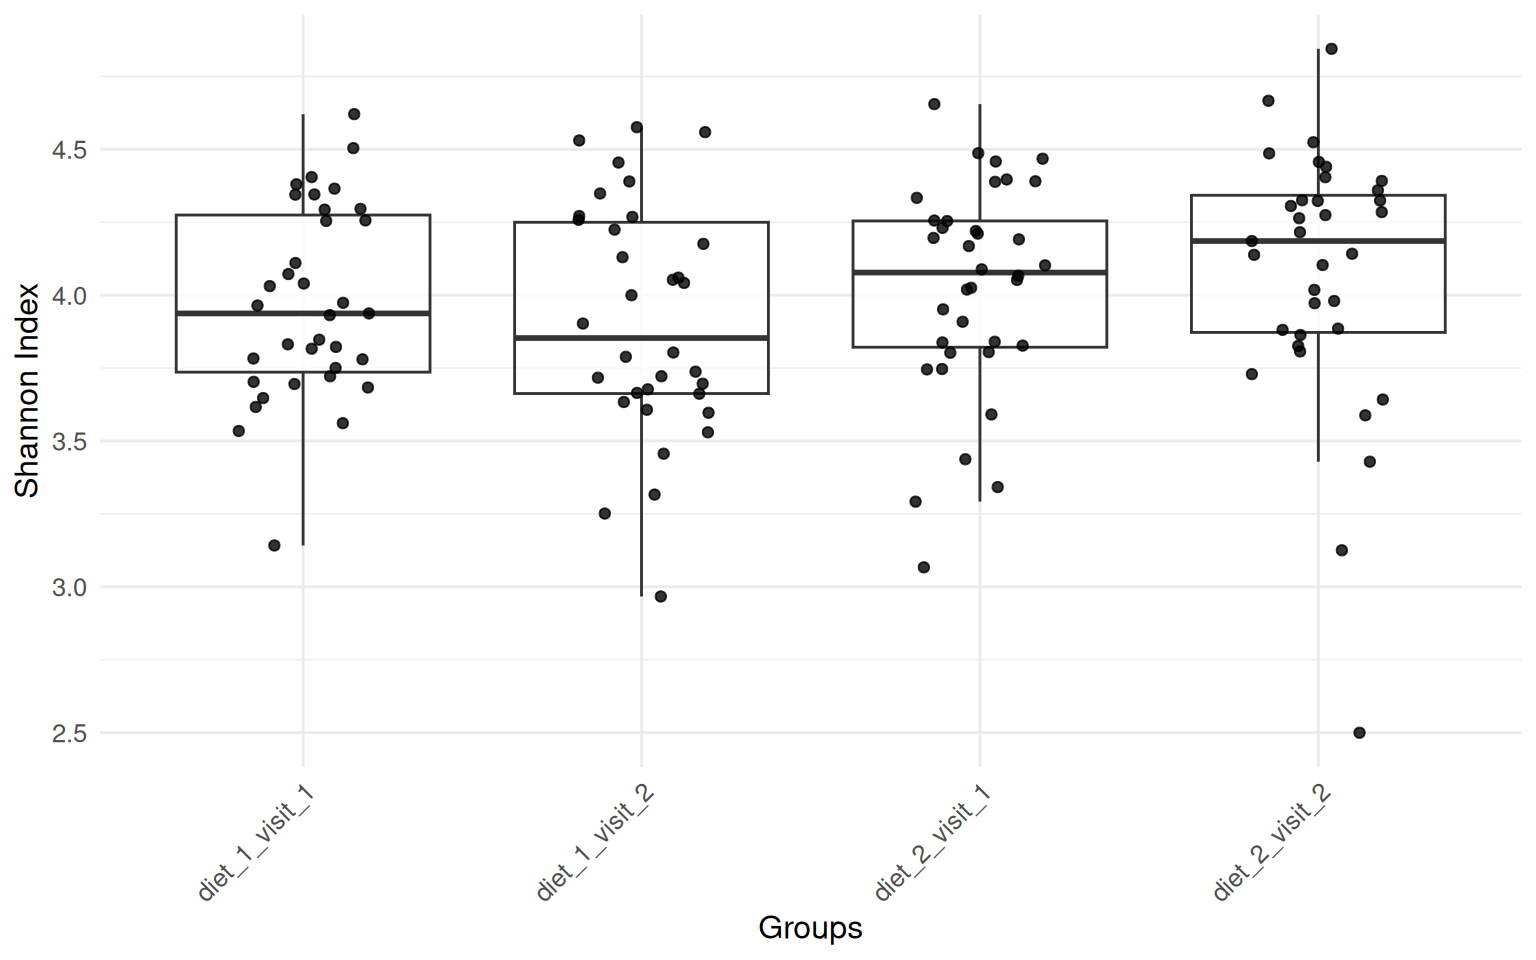
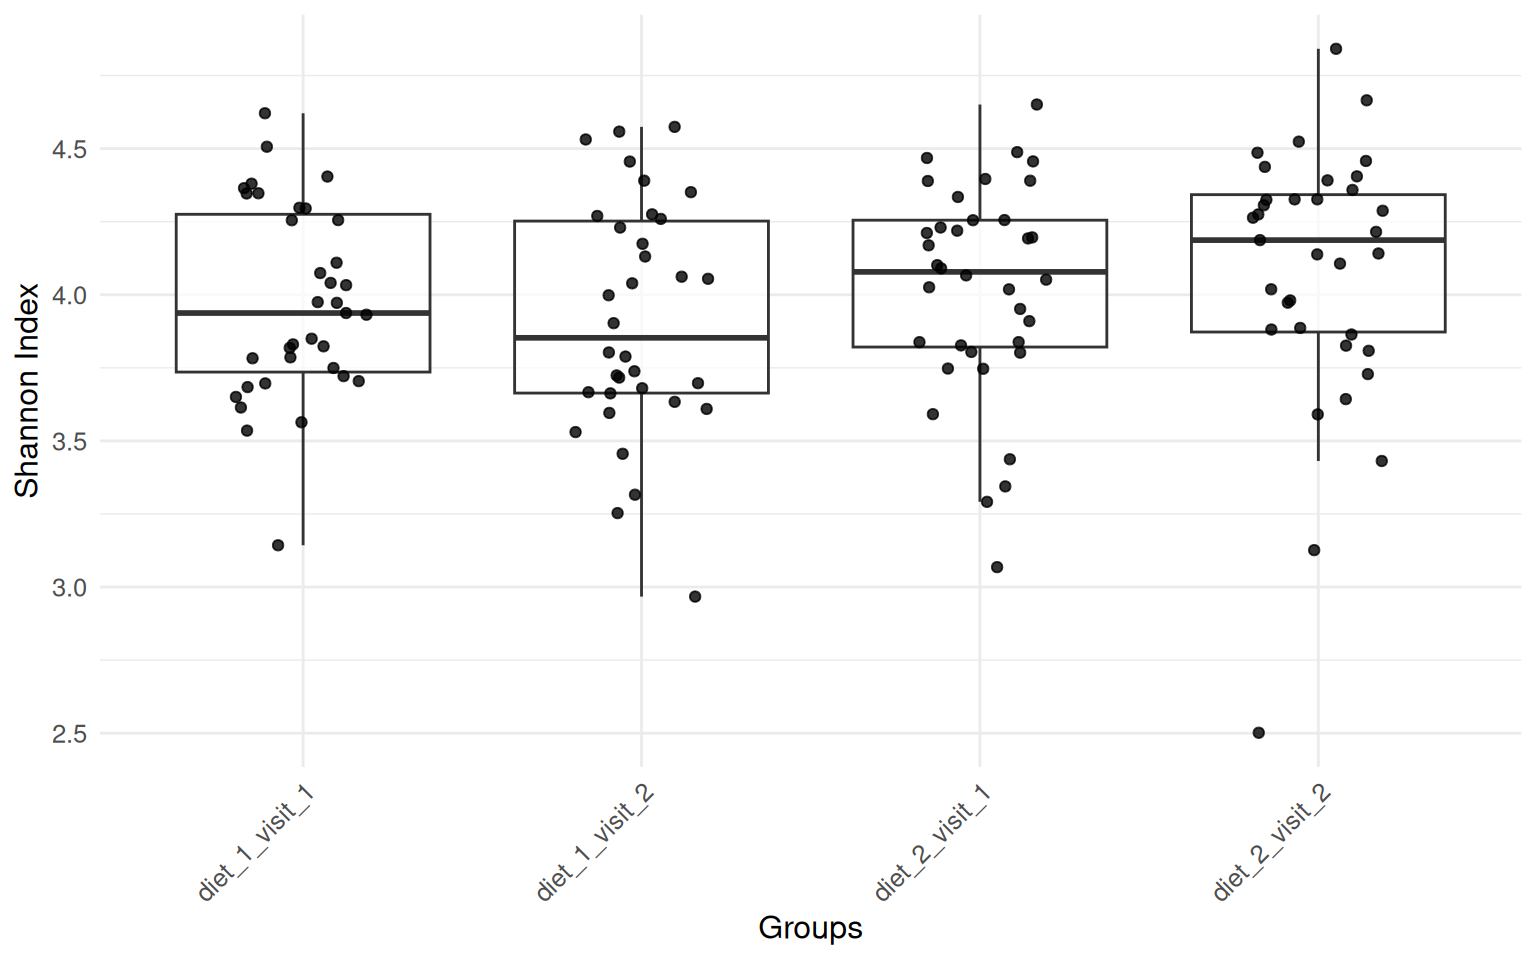
update

diff --git a/output/Beta_Diversity.html b/output/Beta_Diversity.html
@@ -99,50 +99,276 @@ pre > code.sourceCode > span > a:first-child::before { text-decoration: underlin
 <section id="community-dissimilarity" class="level2">
 <h2 class="anchored" data-anchor-id="community-dissimilarity">Community dissimilarity</h2>
 <p>This document presents the results of a microbiota project, focusing on beta diversity analysis. Specifically, we employed Principal Coordinates Analysis (PCoA) using the Bray-Curtis dissimilarity index to assess community dissimilarity among microbiota samples.</p>
-<div class="cell">
-<div class="sourceCode cell-code" id="cb1"><pre class="sourceCode r code-with-copy"><code class="sourceCode r"><span id="cb1-1"><a href="#cb1-1" aria-hidden="true" tabindex="-1"></a><span class="co"># Load libraries</span></span>
-<span id="cb1-2"><a href="#cb1-2" aria-hidden="true" tabindex="-1"></a><span class="fu">library</span>(tidyverse)     </span>
-<span id="cb1-3"><a href="#cb1-3" aria-hidden="true" tabindex="-1"></a><span class="fu">library</span>(TreeSummarizedExperiment)  </span>
-<span id="cb1-4"><a href="#cb1-4" aria-hidden="true" tabindex="-1"></a><span class="fu">library</span>(mia)</span>
-<span id="cb1-5"><a href="#cb1-5" aria-hidden="true" tabindex="-1"></a><span class="fu">library</span>(miaViz)</span>
-<span id="cb1-6"><a href="#cb1-6" aria-hidden="true" tabindex="-1"></a><span class="fu">library</span>(ggpubr)        </span>
-<span id="cb1-7"><a href="#cb1-7" aria-hidden="true" tabindex="-1"></a><span class="fu">library</span>(scater)        </span></code><button title="Copy to Clipboard" class="code-copy-button"><i class="bi"></i></button></pre></div>
-</div>
 <p>Data Preprocessing</p>
 <div class="cell">
-<div class="sourceCode cell-code" id="cb2"><pre class="sourceCode r code-with-copy"><code class="sourceCode r"><span id="cb2-1"><a href="#cb2-1" aria-hidden="true" tabindex="-1"></a><span class="co"># Load and preprocess data</span></span>
-<span id="cb2-2"><a href="#cb2-2" aria-hidden="true" tabindex="-1"></a><span class="co"># tse &lt;- readRDS("../data/tse.Rds")</span></span>
-<span id="cb2-3"><a href="#cb2-3" aria-hidden="true" tabindex="-1"></a><span class="fu">source</span>(<span class="st">"funct.R"</span>)</span></code><button title="Copy to Clipboard" class="code-copy-button"><i class="bi"></i></button></pre></div>
+<div class="sourceCode cell-code" id="cb1"><pre class="sourceCode r code-with-copy"><code class="sourceCode r"><span id="cb1-1"><a href="#cb1-1" aria-hidden="true" tabindex="-1"></a><span class="co"># Load and preprocess data</span></span>
+<span id="cb1-2"><a href="#cb1-2" aria-hidden="true" tabindex="-1"></a><span class="co"># tse &lt;- readRDS("../data/tse.Rds")</span></span>
+<span id="cb1-3"><a href="#cb1-3" aria-hidden="true" tabindex="-1"></a><span class="fu">source</span>(<span class="st">"funct.R"</span>)</span></code><button title="Copy to Clipboard" class="code-copy-button"><i class="bi"></i></button></pre></div>
 <div class="cell-output cell-output-stderr">
-<pre><code>Loading required package: permute</code></pre>
+<pre><code>
+Attaching package: 'dplyr'</code></pre>
 </div>
 <div class="cell-output cell-output-stderr">
-<pre><code>Loading required package: lattice</code></pre>
+<pre><code>The following objects are masked from 'package:stats':
+
+    filter, lag</code></pre>
 </div>
 <div class="cell-output cell-output-stderr">
-<pre><code>This is vegan 2.6-8</code></pre>
+<pre><code>The following objects are masked from 'package:base':
+
+    intersect, setdiff, setequal, union</code></pre>
 </div>
-<div class="sourceCode cell-code" id="cb6"><pre class="sourceCode r code-with-copy"><code class="sourceCode r"><span id="cb6-1"><a href="#cb6-1" aria-hidden="true" tabindex="-1"></a><span class="fu">source</span>(<span class="st">"TreeSE.R"</span>)</span></code><button title="Copy to Clipboard" class="code-copy-button"><i class="bi"></i></button></pre></div>
+<div class="cell-output cell-output-stderr">
+<pre><code>Loading required package: MultiAssayExperiment</code></pre>
+</div>
+<div class="cell-output cell-output-stderr">
+<pre><code>Loading required package: SummarizedExperiment</code></pre>
+</div>
+<div class="cell-output cell-output-stderr">
+<pre><code>Loading required package: MatrixGenerics</code></pre>
+</div>
+<div class="cell-output cell-output-stderr">
+<pre><code>Loading required package: matrixStats</code></pre>
+</div>
+<div class="cell-output cell-output-stderr">
+<pre><code>
+Attaching package: 'matrixStats'</code></pre>
+</div>
+<div class="cell-output cell-output-stderr">
+<pre><code>The following object is masked from 'package:dplyr':
+
+    count</code></pre>
+</div>
+<div class="cell-output cell-output-stderr">
+<pre><code>
+Attaching package: 'MatrixGenerics'</code></pre>
+</div>
+<div class="cell-output cell-output-stderr">
+<pre><code>The following objects are masked from 'package:matrixStats':
+
+    colAlls, colAnyNAs, colAnys, colAvgsPerRowSet, colCollapse,
+    colCounts, colCummaxs, colCummins, colCumprods, colCumsums,
+    colDiffs, colIQRDiffs, colIQRs, colLogSumExps, colMadDiffs,
+    colMads, colMaxs, colMeans2, colMedians, colMins, colOrderStats,
+    colProds, colQuantiles, colRanges, colRanks, colSdDiffs, colSds,
+    colSums2, colTabulates, colVarDiffs, colVars, colWeightedMads,
+    colWeightedMeans, colWeightedMedians, colWeightedSds,
+    colWeightedVars, rowAlls, rowAnyNAs, rowAnys, rowAvgsPerColSet,
+    rowCollapse, rowCounts, rowCummaxs, rowCummins, rowCumprods,
+    rowCumsums, rowDiffs, rowIQRDiffs, rowIQRs, rowLogSumExps,
+    rowMadDiffs, rowMads, rowMaxs, rowMeans2, rowMedians, rowMins,
+    rowOrderStats, rowProds, rowQuantiles, rowRanges, rowRanks,
+    rowSdDiffs, rowSds, rowSums2, rowTabulates, rowVarDiffs, rowVars,
+    rowWeightedMads, rowWeightedMeans, rowWeightedMedians,
+    rowWeightedSds, rowWeightedVars</code></pre>
+</div>
+<div class="cell-output cell-output-stderr">
+<pre><code>Loading required package: GenomicRanges</code></pre>
+</div>
+<div class="cell-output cell-output-stderr">
+<pre><code>Loading required package: stats4</code></pre>
+</div>
+<div class="cell-output cell-output-stderr">
+<pre><code>Loading required package: BiocGenerics</code></pre>
+</div>
+<div class="cell-output cell-output-stderr">
+<pre><code>
+Attaching package: 'BiocGenerics'</code></pre>
+</div>
+<div class="cell-output cell-output-stderr">
+<pre><code>The following objects are masked from 'package:dplyr':
+
+    combine, intersect, setdiff, union</code></pre>
+</div>
+<div class="cell-output cell-output-stderr">
+<pre><code>The following objects are masked from 'package:stats':
+
+    IQR, mad, sd, var, xtabs</code></pre>
+</div>
+<div class="cell-output cell-output-stderr">
+<pre><code>The following objects are masked from 'package:base':
+
+    anyDuplicated, aperm, append, as.data.frame, basename, cbind,
+    colnames, dirname, do.call, duplicated, eval, evalq, Filter, Find,
+    get, grep, grepl, intersect, is.unsorted, lapply, Map, mapply,
+    match, mget, order, paste, pmax, pmax.int, pmin, pmin.int,
+    Position, rank, rbind, Reduce, rownames, sapply, saveRDS, setdiff,
+    table, tapply, union, unique, unsplit, which.max, which.min</code></pre>
+</div>
+<div class="cell-output cell-output-stderr">
+<pre><code>Loading required package: S4Vectors</code></pre>
+</div>
+<div class="cell-output cell-output-stderr">
+<pre><code>
+Attaching package: 'S4Vectors'</code></pre>
+</div>
+<div class="cell-output cell-output-stderr">
+<pre><code>The following objects are masked from 'package:dplyr':
+
+    first, rename</code></pre>
+</div>
+<div class="cell-output cell-output-stderr">
+<pre><code>The following object is masked from 'package:utils':
+
+    findMatches</code></pre>
+</div>
+<div class="cell-output cell-output-stderr">
+<pre><code>The following objects are masked from 'package:base':
+
+    expand.grid, I, unname</code></pre>
+</div>
+<div class="cell-output cell-output-stderr">
+<pre><code>Loading required package: IRanges</code></pre>
+</div>
+<div class="cell-output cell-output-stderr">
+<pre><code>
+Attaching package: 'IRanges'</code></pre>
+</div>
+<div class="cell-output cell-output-stderr">
+<pre><code>The following objects are masked from 'package:dplyr':
+
+    collapse, desc, slice</code></pre>
+</div>
+<div class="cell-output cell-output-stderr">
+<pre><code>Loading required package: GenomeInfoDb</code></pre>
+</div>
+<div class="cell-output cell-output-stderr">
+<pre><code>Loading required package: Biobase</code></pre>
+</div>
+<div class="cell-output cell-output-stderr">
+<pre><code>Welcome to Bioconductor
+
+    Vignettes contain introductory material; view with
+    'browseVignettes()'. To cite Bioconductor, see
+    'citation("Biobase")', and for packages 'citation("pkgname")'.</code></pre>
+</div>
+<div class="cell-output cell-output-stderr">
+<pre><code>
+Attaching package: 'Biobase'</code></pre>
+</div>
+<div class="cell-output cell-output-stderr">
+<pre><code>The following object is masked from 'package:MatrixGenerics':
+
+    rowMedians</code></pre>
+</div>
+<div class="cell-output cell-output-stderr">
+<pre><code>The following objects are masked from 'package:matrixStats':
+
+    anyMissing, rowMedians</code></pre>
+</div>
+<div class="cell-output cell-output-stderr">
+<pre><code>Loading required package: SingleCellExperiment</code></pre>
+</div>
+<div class="cell-output cell-output-stderr">
+<pre><code>Loading required package: TreeSummarizedExperiment</code></pre>
+</div>
+<div class="cell-output cell-output-stderr">
+<pre><code>Loading required package: Biostrings</code></pre>
+</div>
+<div class="cell-output cell-output-stderr">
+<pre><code>Loading required package: XVector</code></pre>
+</div>
+<div class="cell-output cell-output-stderr">
+<pre><code>
+Attaching package: 'Biostrings'</code></pre>
+</div>
+<div class="cell-output cell-output-stderr">
+<pre><code>The following object is masked from 'package:base':
+
+    strsplit</code></pre>
+</div>
+<div class="cell-output cell-output-stderr">
+<pre><code>This is mia version 1.15.4
+- Online documentation and vignettes: https://microbiome.github.io/mia/
+- Online book 'Orchestrating Microbiome Analysis (OMA)': https://microbiome.github.io/OMA/docs/devel/</code></pre>
+</div>
+<div class="cell-output cell-output-stderr">
+<pre><code>
+Attaching package: 'mia'</code></pre>
+</div>
+<div class="cell-output cell-output-stderr">
+<pre><code>The following objects are masked from 'package:dplyr':
+
+    full_join, inner_join, left_join, right_join</code></pre>
+</div>
+<div class="cell-output cell-output-stderr">
+<pre><code>Loading required package: ggraph</code></pre>
+</div>
+<div class="cell-output cell-output-stderr">
+<pre><code>
+Attaching package: 'miaViz'</code></pre>
+</div>
+<div class="cell-output cell-output-stderr">
+<pre><code>The following object is masked from 'package:mia':
+
+    plotNMDS</code></pre>
+</div>
+<div class="cell-output cell-output-stderr">
+<pre><code>Loading required package: scuttle</code></pre>
+</div>
+<div class="cell-output cell-output-stderr">
+<pre><code>
+Attaching package: 'tidyr'</code></pre>
+</div>
+<div class="cell-output cell-output-stderr">
+<pre><code>The following object is masked from 'package:S4Vectors':
+
+    expand</code></pre>
+</div>
+<div class="cell-output cell-output-stderr">
+<pre><code>── Attaching core tidyverse packages ──────────────────────── tidyverse 2.0.0 ──
+✔ forcats   1.0.0     ✔ readr     2.1.5
+✔ lubridate 1.9.3     ✔ stringr   1.5.1
+✔ purrr     1.0.2     ✔ tibble    3.2.1
+── Conflicts ────────────────────────────────────────── tidyverse_conflicts() ──
+✖ lubridate::%within%()    masks IRanges::%within%()
+✖ Biostrings::collapse()   masks IRanges::collapse(), dplyr::collapse()
+✖ Biobase::combine()       masks BiocGenerics::combine(), dplyr::combine()
+✖ purrr::compact()         masks XVector::compact()
+✖ matrixStats::count()     masks dplyr::count()
+✖ IRanges::desc()          masks dplyr::desc()
+✖ tidyr::expand()          masks S4Vectors::expand()
+✖ dplyr::filter()          masks stats::filter()
+✖ S4Vectors::first()       masks dplyr::first()
+✖ mia::full_join()         masks dplyr::full_join()
+✖ mia::inner_join()        masks dplyr::inner_join()
+✖ dplyr::lag()             masks stats::lag()
+✖ mia::left_join()         masks dplyr::left_join()
+✖ BiocGenerics::Position() masks ggplot2::Position(), base::Position()
+✖ purrr::reduce()          masks GenomicRanges::reduce(), IRanges::reduce()
+✖ S4Vectors::rename()      masks dplyr::rename()
+✖ mia::right_join()        masks dplyr::right_join()
+✖ lubridate::second()      masks S4Vectors::second()
+✖ lubridate::second&lt;-()    masks S4Vectors::second&lt;-()
+✖ XVector::slice()         masks IRanges::slice(), dplyr::slice()
+ℹ Use the conflicted package (&lt;http://conflicted.r-lib.org/&gt;) to force all conflicts to become errors
+Loading required package: permute
+
+Loading required package: lattice
+
+This is vegan 2.6-8</code></pre>
+</div>
+<div class="sourceCode cell-code" id="cb50"><pre class="sourceCode r code-with-copy"><code class="sourceCode r"><span id="cb50-1"><a href="#cb50-1" aria-hidden="true" tabindex="-1"></a><span class="fu">source</span>(<span class="st">"data.R"</span>)</span></code><button title="Copy to Clipboard" class="code-copy-button"><i class="bi"></i></button></pre></div>
 <div class="cell-output cell-output-stdout">
 <pre><code>
 diet_1_visit_1 diet_1_visit_2 diet_2_visit_1 diet_2_visit_2 
             35             34             36             35 </code></pre>
 </div>
-<div class="sourceCode cell-code" id="cb8"><pre class="sourceCode r code-with-copy"><code class="sourceCode r"><span id="cb8-1"><a href="#cb8-1" aria-hidden="true" tabindex="-1"></a>tse <span class="ot">&lt;-</span> <span class="fu">agglomerateByRanks</span>(tse)</span></code><button title="Copy to Clipboard" class="code-copy-button"><i class="bi"></i></button></pre></div>
+<div class="sourceCode cell-code" id="cb52"><pre class="sourceCode r code-with-copy"><code class="sourceCode r"><span id="cb52-1"><a href="#cb52-1" aria-hidden="true" tabindex="-1"></a>tse <span class="ot">&lt;-</span> <span class="fu">agglomerateByRanks</span>(tse)</span></code><button title="Copy to Clipboard" class="code-copy-button"><i class="bi"></i></button></pre></div>
 <div class="cell-output cell-output-stderr">
 <pre><code>Warning: The following values are already present in `altExps` and will be
 overwritten: 'kingdom', 'phylum', 'class', 'order', 'family', 'genus',
 'species'. Consider using the 'name' argument to specify alternative names.</code></pre>
 </div>
-<div class="sourceCode cell-code" id="cb10"><pre class="sourceCode r code-with-copy"><code class="sourceCode r"><span id="cb10-1"><a href="#cb10-1" aria-hidden="true" tabindex="-1"></a>tse <span class="ot">&lt;-</span> <span class="fu">transformAssay</span>(tse, <span class="at">method =</span> <span class="st">"relabundance"</span>)</span>
-<span id="cb10-2"><a href="#cb10-2" aria-hidden="true" tabindex="-1"></a>tse <span class="ot">&lt;-</span> <span class="fu">altExp</span>(tse, <span class="st">"species"</span>)</span></code><button title="Copy to Clipboard" class="code-copy-button"><i class="bi"></i></button></pre></div>
+<div class="sourceCode cell-code" id="cb54"><pre class="sourceCode r code-with-copy"><code class="sourceCode r"><span id="cb54-1"><a href="#cb54-1" aria-hidden="true" tabindex="-1"></a>tse <span class="ot">&lt;-</span> <span class="fu">transformAssay</span>(tse, <span class="at">method =</span> <span class="st">"relabundance"</span>)</span>
+<span id="cb54-2"><a href="#cb54-2" aria-hidden="true" tabindex="-1"></a>tse <span class="ot">&lt;-</span> <span class="fu">altExp</span>(tse, <span class="st">"species"</span>)</span></code><button title="Copy to Clipboard" class="code-copy-button"><i class="bi"></i></button></pre></div>
 </div>
 <p>Generate plots</p>
 <div class="cell">
-<div class="sourceCode cell-code" id="cb11"><pre class="sourceCode r code-with-copy"><code class="sourceCode r"><span id="cb11-1"><a href="#cb11-1" aria-hidden="true" tabindex="-1"></a><span class="co"># Generate plots</span></span>
-<span id="cb11-2"><a href="#cb11-2" aria-hidden="true" tabindex="-1"></a>beta_pcoa <span class="ot">&lt;-</span> <span class="fu">lapply</span>(comparisons, <span class="cf">function</span>(comp) <span class="fu">PCoA_plot</span>(tse, comp, variable))</span>
-<span id="cb11-3"><a href="#cb11-3" aria-hidden="true" tabindex="-1"></a>combined_plot <span class="ot">&lt;-</span> <span class="fu">wrap_plots</span>(beta_pcoa, <span class="at">nrow =</span> <span class="dv">2</span>)</span>
-<span id="cb11-4"><a href="#cb11-4" aria-hidden="true" tabindex="-1"></a>combined_plot</span></code><button title="Copy to Clipboard" class="code-copy-button"><i class="bi"></i></button></pre></div>
+<div class="sourceCode cell-code" id="cb55"><pre class="sourceCode r code-with-copy"><code class="sourceCode r"><span id="cb55-1"><a href="#cb55-1" aria-hidden="true" tabindex="-1"></a><span class="co"># Generate plots</span></span>
+<span id="cb55-2"><a href="#cb55-2" aria-hidden="true" tabindex="-1"></a>beta_pcoa <span class="ot">&lt;-</span> <span class="fu">lapply</span>(comparisons, <span class="cf">function</span>(comp) <span class="fu">PCoA_plot</span>(tse, comp, variable))</span>
+<span id="cb55-3"><a href="#cb55-3" aria-hidden="true" tabindex="-1"></a>combined_plot <span class="ot">&lt;-</span> <span class="fu">wrap_plots</span>(beta_pcoa, <span class="at">nrow =</span> <span class="dv">2</span>)</span>
+<span id="cb55-4"><a href="#cb55-4" aria-hidden="true" tabindex="-1"></a>combined_plot</span></code><button title="Copy to Clipboard" class="code-copy-button"><i class="bi"></i></button></pre></div>
 <div class="cell-output-display">
 <div>
 <figure class="figure">

diff --git a/output/Alpha_Diversity.html b/output/Alpha_Diversity.html
@@ -110,16 +110,9 @@ pre > code.sourceCode > span > a:first-child::before { text-decoration: underlin
 <section id="setup" class="level2">
 <h2 class="anchored" data-anchor-id="setup">Setup</h2>
 <div class="cell">
-<div class="sourceCode cell-code" id="cb1"><pre class="sourceCode r code-with-copy"><code class="sourceCode r"><span id="cb1-1"><a href="#cb1-1" aria-hidden="true" tabindex="-1"></a><span class="co"># Load necessary libraries</span></span>
-<span id="cb1-2"><a href="#cb1-2" aria-hidden="true" tabindex="-1"></a><span class="fu">library</span>(tidyverse)     <span class="co"># Includes ggplot2, dplyr, and readr</span></span>
-<span id="cb1-3"><a href="#cb1-3" aria-hidden="true" tabindex="-1"></a><span class="fu">library</span>(TreeSummarizedExperiment)  <span class="co"># For microbiome data analysis</span></span>
-<span id="cb1-4"><a href="#cb1-4" aria-hidden="true" tabindex="-1"></a><span class="fu">library</span>(mia)           <span class="co"># Microbiome analysis functions built on TSE</span></span>
-<span id="cb1-5"><a href="#cb1-5" aria-hidden="true" tabindex="-1"></a><span class="fu">library</span>(ggpubr)        <span class="co"># For ggplot2-based visualizations</span></span>
-<span id="cb1-6"><a href="#cb1-6" aria-hidden="true" tabindex="-1"></a><span class="fu">library</span>(quarto)        <span class="co"># For rendering Quarto documents</span></span>
-<span id="cb1-7"><a href="#cb1-7" aria-hidden="true" tabindex="-1"></a></span>
-<span id="cb1-8"><a href="#cb1-8" aria-hidden="true" tabindex="-1"></a><span class="co"># tse &lt;- readRDS("../data/tse.Rds")</span></span>
-<span id="cb1-9"><a href="#cb1-9" aria-hidden="true" tabindex="-1"></a><span class="fu">source</span>(<span class="st">"funct.R"</span>)</span>
-<span id="cb1-10"><a href="#cb1-10" aria-hidden="true" tabindex="-1"></a><span class="fu">source</span>(<span class="st">"TreeSE.R"</span>)</span></code><button title="Copy to Clipboard" class="code-copy-button"><i class="bi"></i></button></pre></div>
+<div class="sourceCode cell-code" id="cb1"><pre class="sourceCode r code-with-copy"><code class="sourceCode r"><span id="cb1-1"><a href="#cb1-1" aria-hidden="true" tabindex="-1"></a><span class="co"># tse &lt;- readRDS("../data/tse.Rds")</span></span>
+<span id="cb1-2"><a href="#cb1-2" aria-hidden="true" tabindex="-1"></a><span class="fu">source</span>(<span class="st">"funct.R"</span>)</span>
+<span id="cb1-3"><a href="#cb1-3" aria-hidden="true" tabindex="-1"></a><span class="fu">source</span>(<span class="st">"data.R"</span>)</span></code><button title="Copy to Clipboard" class="code-copy-button"><i class="bi"></i></button></pre></div>
 <div class="cell-output cell-output-stdout">
 <pre><code>
 diet_1_visit_1 diet_1_visit_2 diet_2_visit_1 diet_2_visit_2 

diff --git a/output/Community_composition.html b/output/Community_composition.html
@@ -110,16 +110,9 @@ pre > code.sourceCode > span > a:first-child::before { text-decoration: underlin
 <section id="setup" class="level2">
 <h2 class="anchored" data-anchor-id="setup">Setup</h2>
 <div class="cell">
-<div class="sourceCode cell-code" id="cb1"><pre class="sourceCode r code-with-copy"><code class="sourceCode r"><span id="cb1-1"><a href="#cb1-1" aria-hidden="true" tabindex="-1"></a><span class="co"># Load necessary libraries</span></span>
-<span id="cb1-2"><a href="#cb1-2" aria-hidden="true" tabindex="-1"></a><span class="fu">library</span>(tidyverse)     <span class="co"># Includes ggplot2, dplyr, and readr</span></span>
-<span id="cb1-3"><a href="#cb1-3" aria-hidden="true" tabindex="-1"></a><span class="fu">library</span>(TreeSummarizedExperiment)  <span class="co"># For microbiome data analysis</span></span>
-<span id="cb1-4"><a href="#cb1-4" aria-hidden="true" tabindex="-1"></a><span class="fu">library</span>(mia)           <span class="co"># Microbiome analysis functions built on TSE</span></span>
-<span id="cb1-5"><a href="#cb1-5" aria-hidden="true" tabindex="-1"></a><span class="fu">library</span>(ggpubr)        <span class="co"># For ggplot2-based visualizations</span></span>
-<span id="cb1-6"><a href="#cb1-6" aria-hidden="true" tabindex="-1"></a><span class="fu">library</span>(quarto)        <span class="co"># For rendering Quarto documents</span></span>
-<span id="cb1-7"><a href="#cb1-7" aria-hidden="true" tabindex="-1"></a></span>
-<span id="cb1-8"><a href="#cb1-8" aria-hidden="true" tabindex="-1"></a><span class="co"># tse &lt;- readRDS("../data/tse.Rds")</span></span>
-<span id="cb1-9"><a href="#cb1-9" aria-hidden="true" tabindex="-1"></a><span class="fu">source</span>(<span class="st">"funct.R"</span>)</span>
-<span id="cb1-10"><a href="#cb1-10" aria-hidden="true" tabindex="-1"></a><span class="fu">source</span>(<span class="st">"TreeSE.R"</span>)</span></code><button title="Copy to Clipboard" class="code-copy-button"><i class="bi"></i></button></pre></div>
+<div class="sourceCode cell-code" id="cb1"><pre class="sourceCode r code-with-copy"><code class="sourceCode r"><span id="cb1-1"><a href="#cb1-1" aria-hidden="true" tabindex="-1"></a><span class="co"># tse &lt;- readRDS("../data/tse.Rds")</span></span>
+<span id="cb1-2"><a href="#cb1-2" aria-hidden="true" tabindex="-1"></a><span class="fu">source</span>(<span class="st">"funct.R"</span>)</span>
+<span id="cb1-3"><a href="#cb1-3" aria-hidden="true" tabindex="-1"></a><span class="fu">source</span>(<span class="st">"data.R"</span>)</span></code><button title="Copy to Clipboard" class="code-copy-button"><i class="bi"></i></button></pre></div>
 <div class="cell-output cell-output-stdout">
 <pre><code>
 diet_1_visit_1 diet_1_visit_2 diet_2_visit_1 diet_2_visit_2 